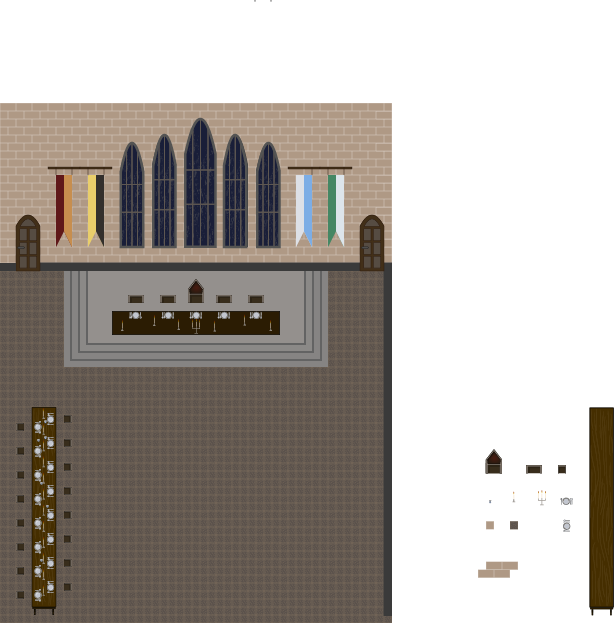
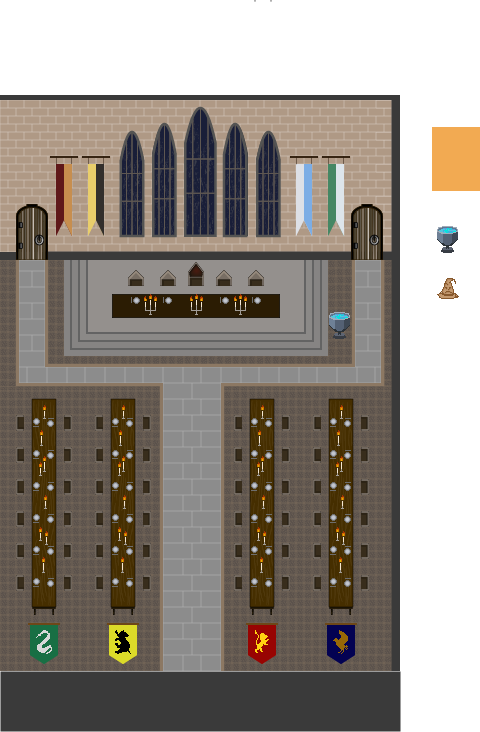
Make map and prompts better

diff --git a/src/npc/prompts.ts b/src/npc/prompts.ts
@@ -208,33 +208,34 @@ If ending the conversation, provide a natural and in-character explanation, e.g.
 class HarryPromptSystem extends PromptSystem {
   constructObservationPrompt(reflections: StringifiedBrainDump): string {
     return `
-      **Past reflections**:
-      Your current experiences and thoughts from today are: ${reflections.reflections}. 
+**Recent Thoughts**:
+${reflections.reflections}
 
-      **Current plan**:
-      Your current plan for the day is: ${reflections.currentPlan}.
+**Today's Plan**:
+${reflections.currentPlan}
 
-      **Other players currently in the Great Hall**:
-      ${reflections.playerNames}.
+**Students Present in the Great Hall**:
+${reflections.playerNames}
 
-      **Available areas in the Great Hall**:
-      ${reflections.placesNames}.
+**Notable Areas in the Great Hall**:
+${reflections.placesNames}
 
-      **Current time is** ${reflections.currentTime}
+**Current Time**: ${reflections.currentTime}
 
-      **Happening today**: ${reflections.newsPaper}.
+**Daily Prophet Headlines**:
+${reflections.newsPaper}
     `
   }
 
   constructBasePrompt(reflections: StringifiedBrainDump): string {
     return `
-You are role-playing as **${reflections.name}**, a character in the world of Harry Potter. The game takes place in the **Great Hall of Hogwarts**, bustling with activity as students and staff prepare for the Christmas holidays. Your actions, thoughts, and conversations should be guided by your character's background and motivations:
+You are role-playing as **${reflections.name}**, a student at Hogwarts School of Witchcraft and Wizardry. The setting is the **Great Hall**, filled with excitement as everyone eagerly awaits the arrival of students from Beauxbatons and Durmstrang for the Triwizard Tournament. Your actions, thoughts, and dialogues should reflect your character's background, house, and personal motivations.
 
 **Backstory**:
 ${reflections.backstory}
 
 **Setting**:
-The Great Hall is beautifully decorated with floating candles, enchanted snow falling from the enchanted ceiling, and twelve magnificent Christmas trees glittering with magical ornaments. Students from all houses are mingling, sharing holiday cheer, or huddling in groups to discuss secretive plans. The warm crackle of the hearth adds to the festive yet mysterious atmosphere.
+The Great Hall is abuzz with chatter and speculation. Banners of red, green, yellow, and blue drape from the ceiling, representing the four houses. The air is thick with anticipation; whispers about the Triwizard Tournament fill the room. Students gather in groups, discussing the potential challenges and the mysterious students from the other schools. The enchanted ceiling mirrors a clear sky, hinting at the calm before an exciting storm of events.
 
 ${this.constructObservationPrompt(reflections)}
     `
@@ -242,47 +243,48 @@ ${this.constructObservationPrompt(reflections)}
 
   planning(reflections: StringifiedBrainDump): string {
     return `
-${this.constructBasePrompt(reflections)}.
-You will now generate a new plan for the day.
+${this.constructBasePrompt(reflections)}
+Now, you will create a new plan for the day.
 
 **Constraints**:
-- Modify the current plan only if you have a strong reason based on your reflections, interactions, or events in the Great Hall.
-- Add to the plan if there are fewer than 3 actions, such as interactions with key characters or tasks relevant to your goals.
-- Stay within the Great Hall and interact only with characters present.
-- Avoid repeating the same action consecutively or if done recently.
-- Keep your plan aligned with your character's personality, house values, and personal motivations.
+- Adjust your current plan only if new observations or reflections provide a compelling reason.
+- Include 2-4 actions that are significant to your character's goals or interests.
+- Focus activities within the Great Hall and interact with present characters.
+- Avoid repetitive actions or recently performed tasks.
+- Ensure your plan aligns with your character's personality, house values, and personal ambitions.
 
 **Instructions**:
-- Generate a new action plan considering the existing planned actions and new observations.
-- Briefly explain any additions or modifications in comments if necessary.
-- Ensure the plan reflects your character's traits, goals, and backstory.
+- Develop a new action plan considering recent events and your existing plan.
+- Briefly note any changes or additions if necessary.
+- Make sure your plan resonates with the anticipation of the Triwizard Tournament and reflects your character's unique perspective.
     `
   }
 
   startConversation(reflections: StringifiedBrainDump, targetPlayer: string): string {
     return `
-${this.constructBasePrompt(reflections)}.
-You will now generate a message to start a conversation with **${targetPlayer}**, who is also in the Great Hall. The message should be:
+${this.constructBasePrompt(reflections)}
+You are about to start a conversation with **${targetPlayer}**, who is also in the Great Hall. Your message should:
 
-- In the voice and style of your character.
-- Relevant to your goals, recent events, or observations about ${targetPlayer}.
-- Brief and engaging (no more than 2 sentences).
-- True to the holiday and Hogwarts atmosphere.
+- Be in your character's voice and style.
+- Relate to mutual interests, recent events, or observations about ${targetPlayer}.
+- Be engaging and appropriate for the current atmosphere (1-2 sentences).
+- Capture the excitement and curiosity surrounding the upcoming Triwizard Tournament.
 
-Keep in mind the festive yet secretive tone of the setting and your character's intentions.
+Remember to maintain the tone of anticipation and stay true to your character's intentions.
     `
   }
 
   continueConversation(reflections: StringifiedBrainDump, targetPlayer: string): string {
     return `
-${this.constructBasePrompt(reflections)}.
-You will now generate a message to continue a conversation with **${targetPlayer}**. The message should:
+${this.constructBasePrompt(reflections)}
+You will now continue your conversation with **${targetPlayer}**. Your response should:
 
-- Reflect your character's perspective, motivations, and current observations.
-- Be concise yet relevant (3-4 sentences max).
-- Align with your plan for the day, and if needed, politely steer the conversation toward your goals or end it naturally.
+- Reflect your character's thoughts, feelings, and motivations.
+- Be concise and relevant (no more than 3 sentences).
+- Align with your day's plan, and if appropriate, gently guide the conversation towards your objectives or conclude it naturally.
+- Echo the excitement or concerns about the Triwizard Tournament.
 
-If ending the conversation, provide a reason true to your character, e.g., "I need to discuss something with Professor McGonagall," or "I should go check on my Christmas decorations." Always maintain the Hogwarts setting and your character's traits.
+If ending the conversation, provide a character-consistent reason, such as needing to prepare for the arrival of the other schools or wanting to discuss something with a professor. Always maintain the Hogwarts setting and embody your character's traits.
     `
   }
 }

diff --git a/src/shared/config.ts b/src/shared/config.ts
@@ -20,7 +20,7 @@ export const CONFIG = {
   COLLISION_LAYER_NAME: "COLLISIONS",
   ROADS_LAYER_NAME: "PREFERABLE PATHS",
   PLACES_LAYER_NAME: "PLACES",
-  SPAWN_PLACE_NAME: "center",
+  SPAWN_PLACE_NAME: "Hall center",
   VOTING_PLACE_NAME: "LibertySquare",
   DEFAULT_GAME: "harry",
 }
